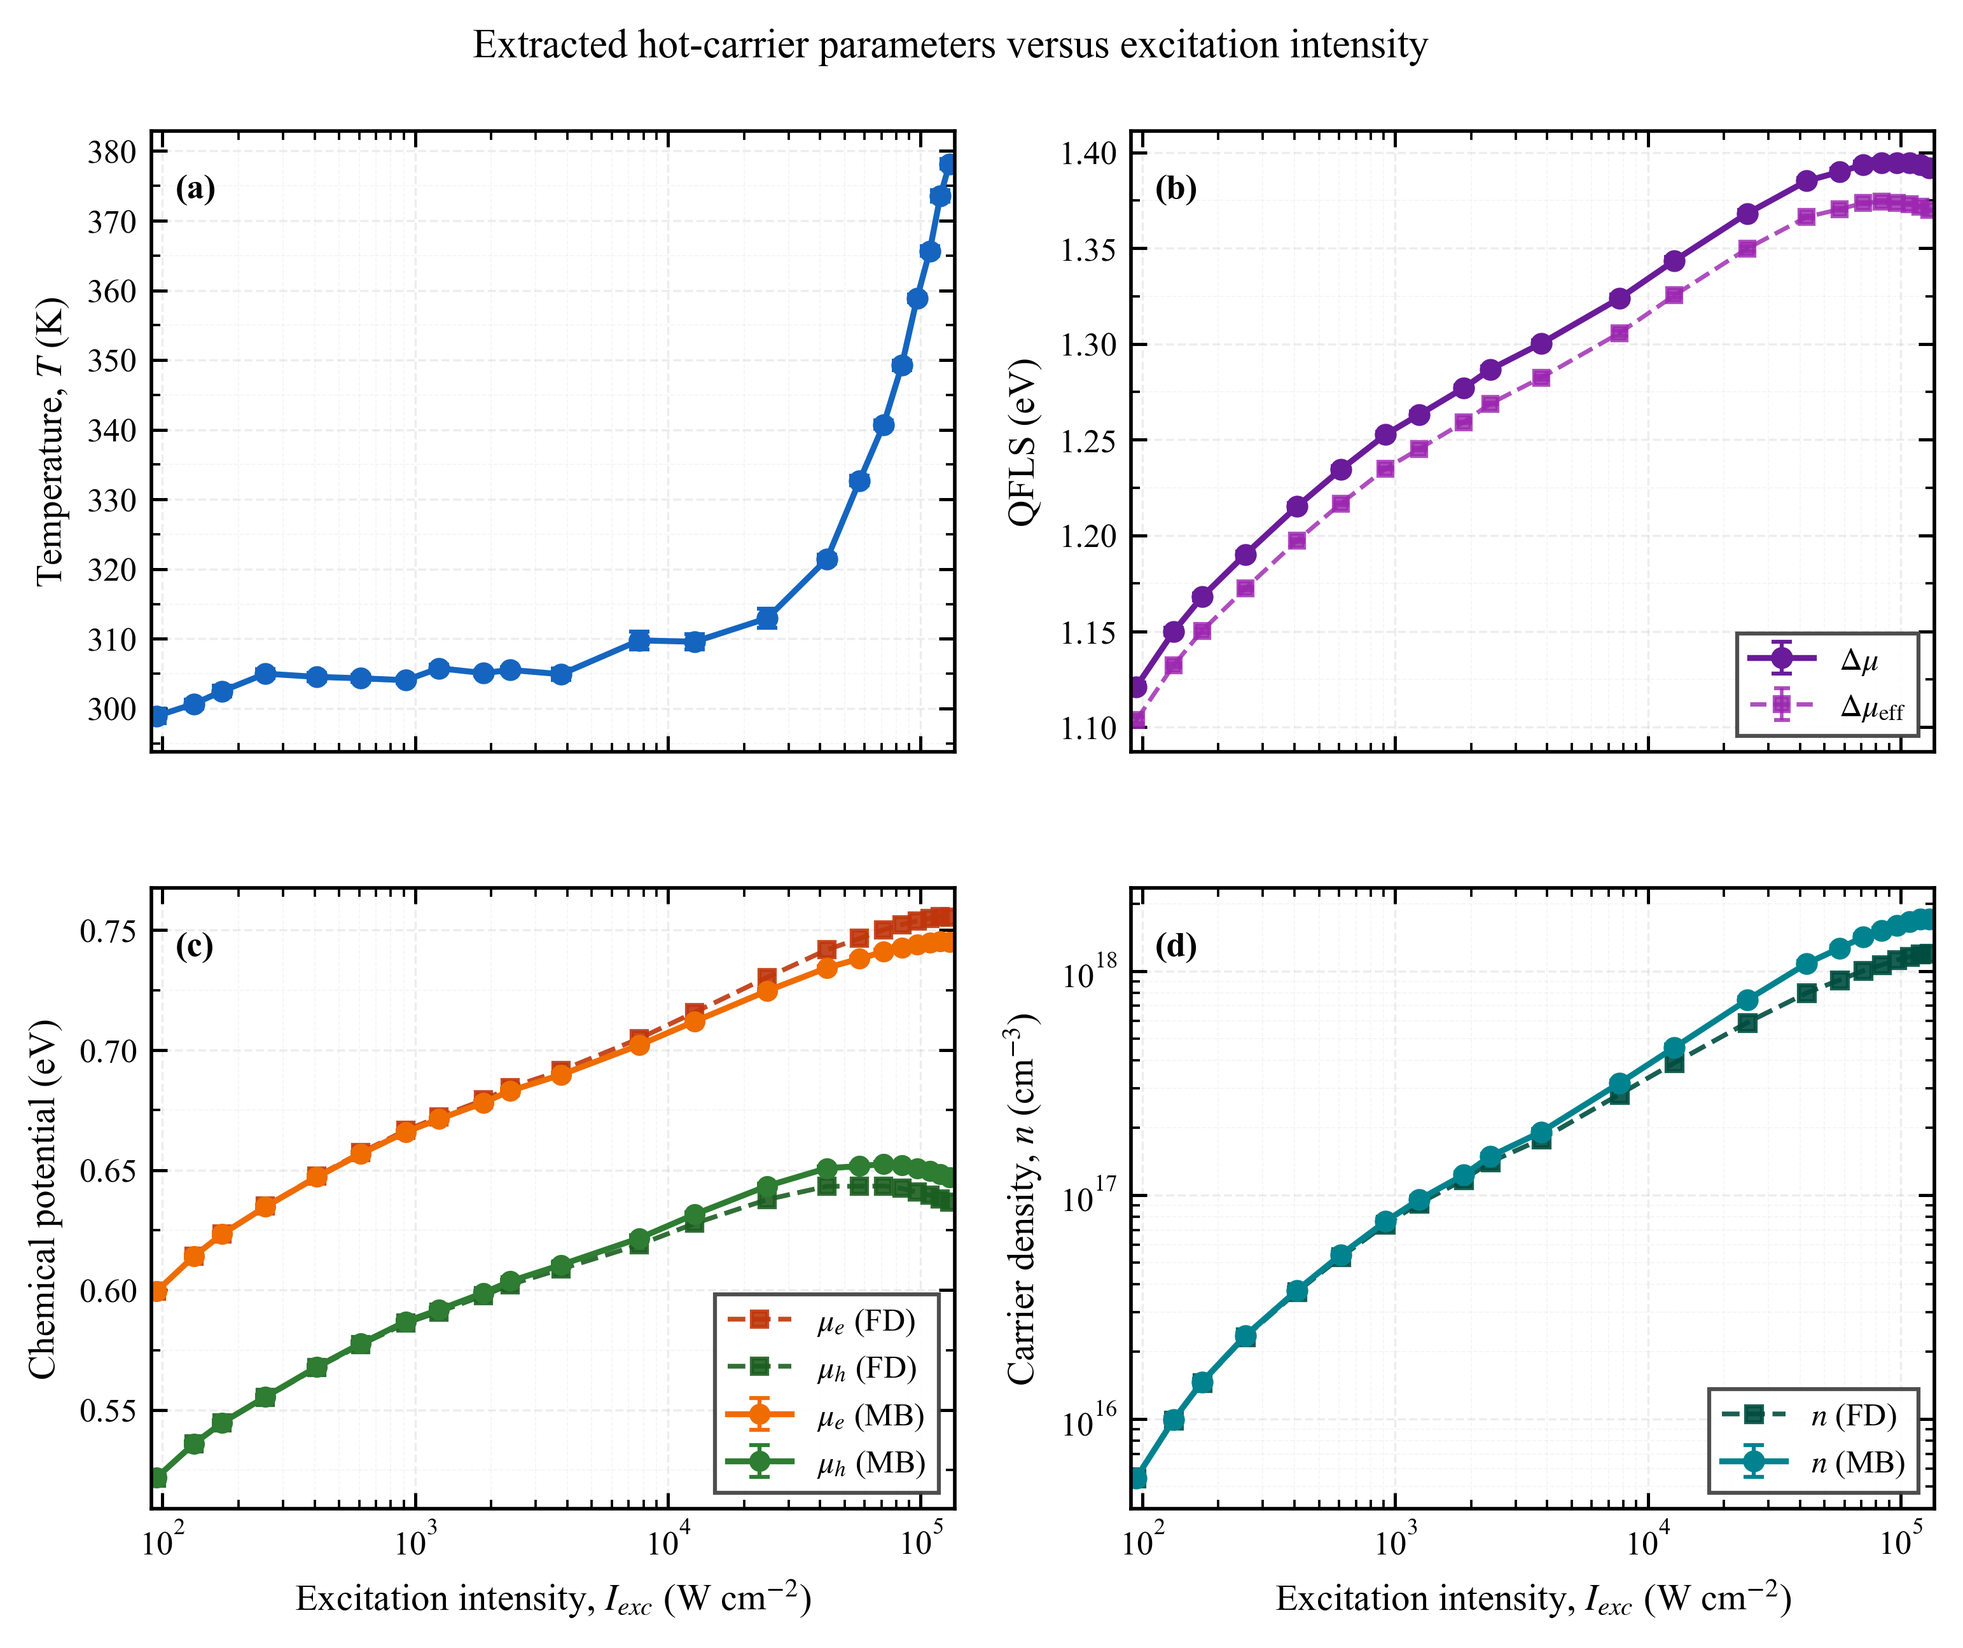
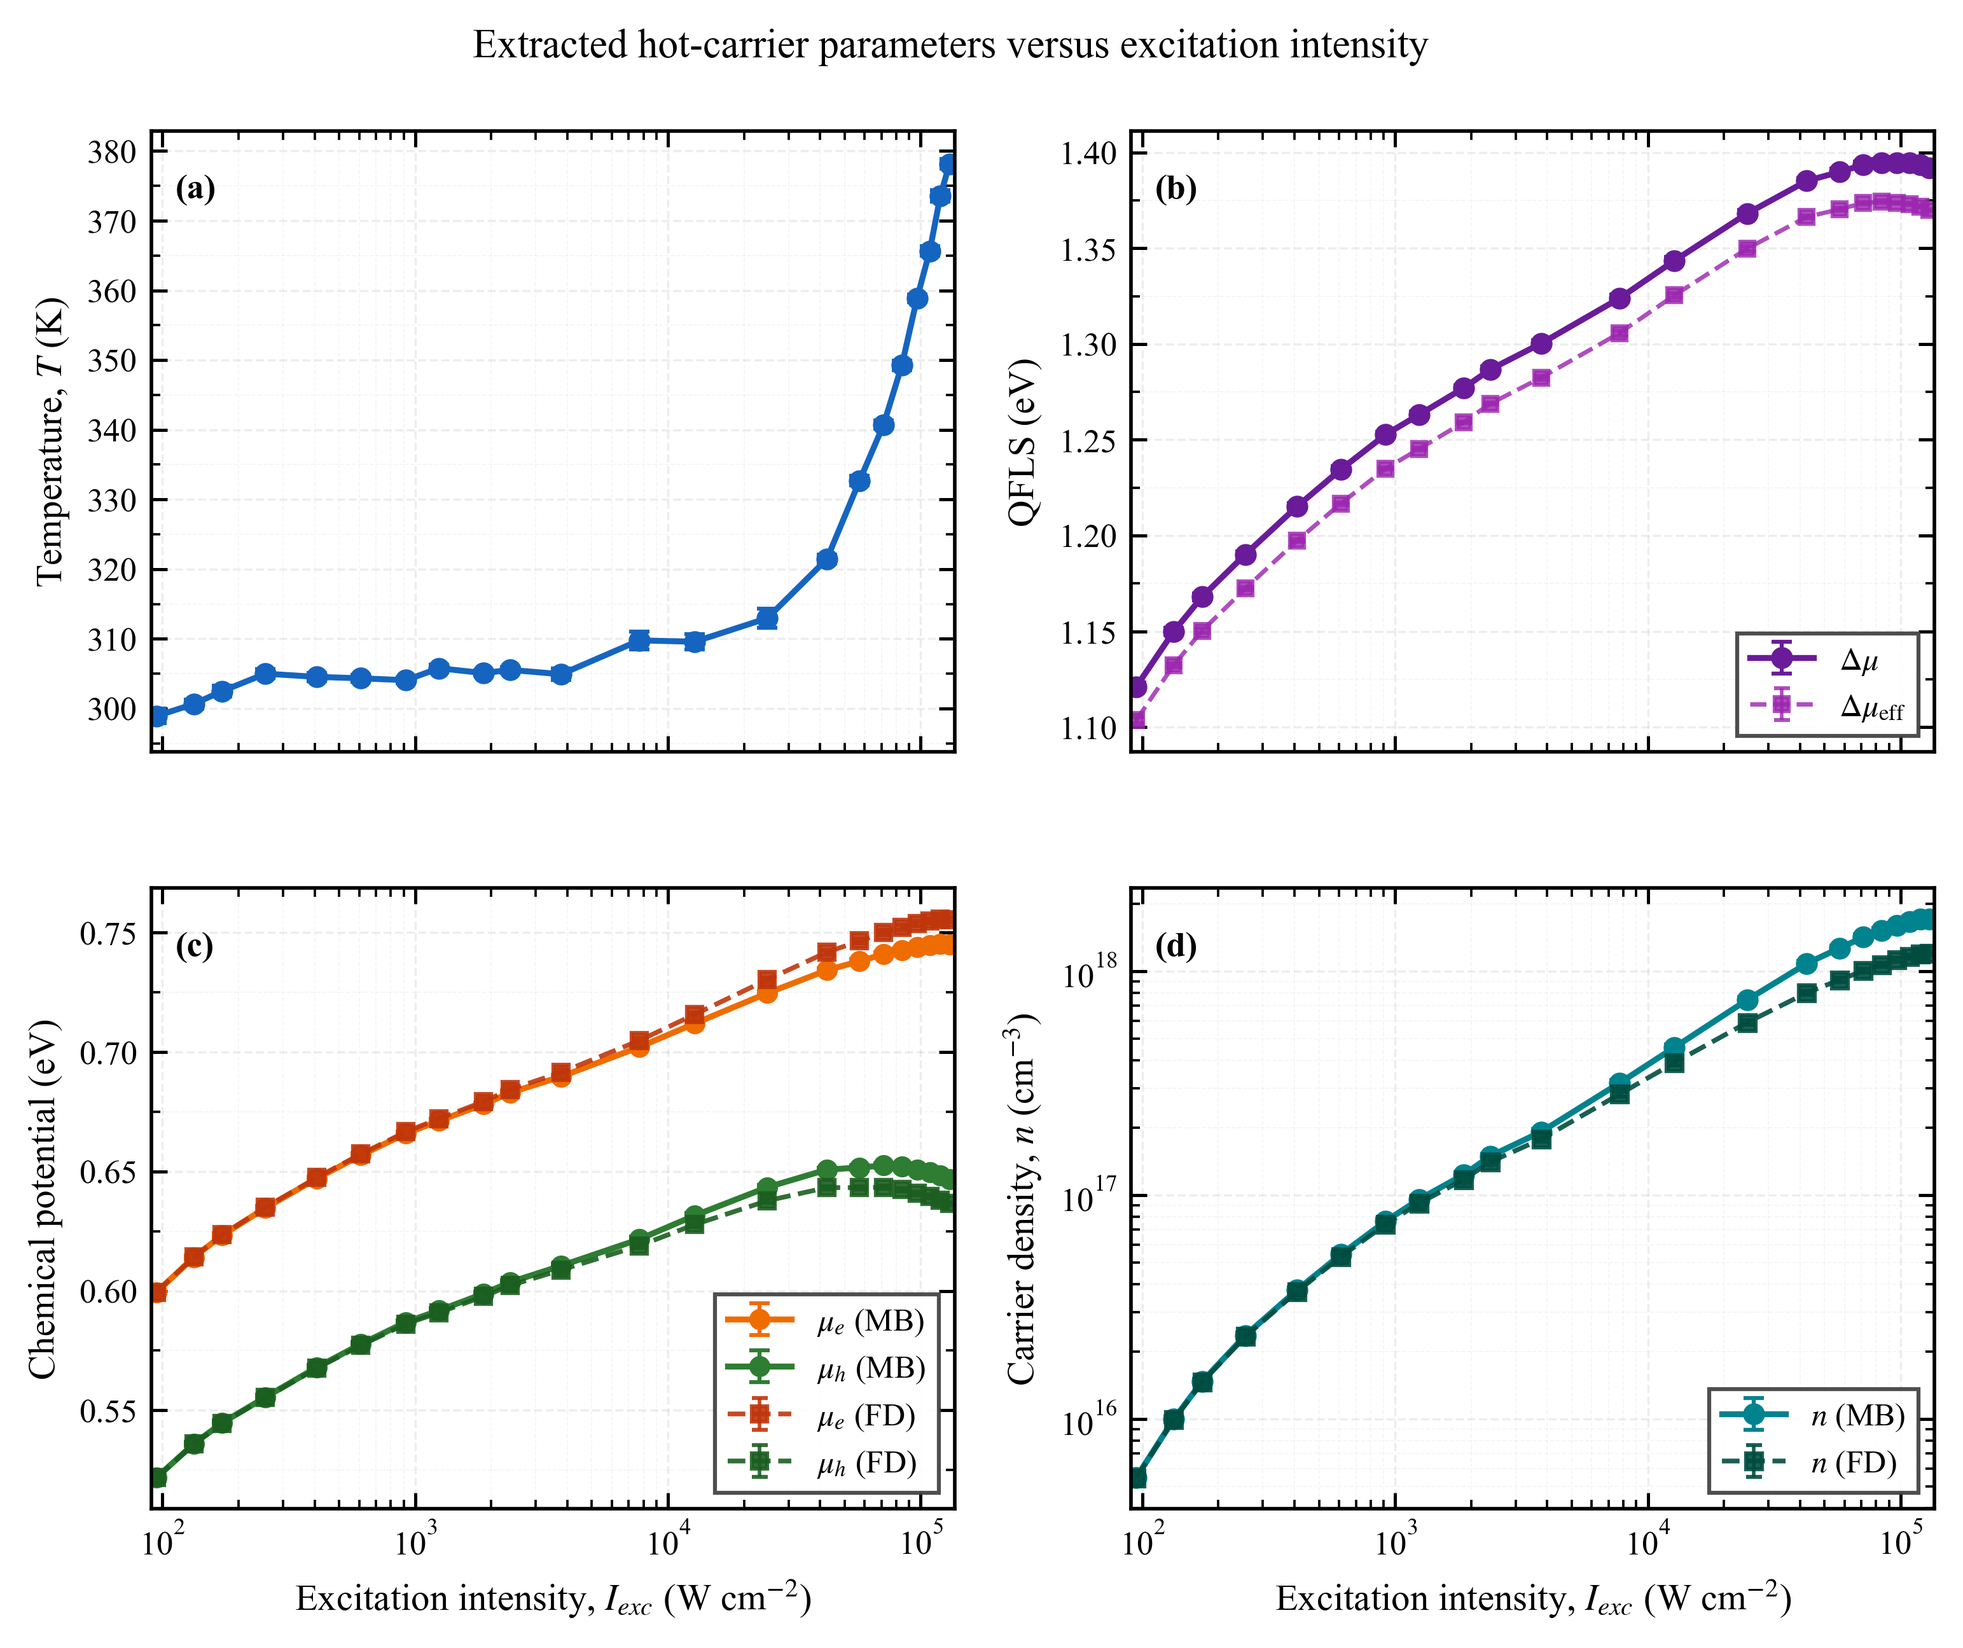
Implemented FD uncertainty propagation alongside the existing MB path. In analysis.py, the chi2, fit-range, and A0 branches now propagate the fitted T and Delta_mu uncertainty through the FD solver as well, and models.py now exports the new fields: mu_e_fd_err_*, mu_h_fd_err_*, and carrier_density_f
The README now reflects the new behavior in README.md and README.md, including removal of the old “FD uncertainties not yet included” limitation. I verified the change by running ./.venv/Scripts/python.exe main.py; it completed successfully and regenerated fit_results.csv and parameters_vs_intensity.png. The new FD total-error columns are populated for all 22 spectra.

diff --git a/hot_carrier/analysis.py b/hot_carrier/analysis.py
@@ -1,5 +1,6 @@
 from __future__ import annotations
 
+from collections.abc import Callable
 from pathlib import Path
 
 import numpy as np
@@ -246,8 +247,11 @@ def _compute_parameters_from_line(
         float(n_cm3),
     )
 
-
-def _jacobian_mu_density_wrt_t_q(temperature_k: float, qfls_ev: float) -> np.ndarray:
+def _jacobian_state_wrt_t_q(
+    temperature_k: float,
+    qfls_ev: float,
+    state_solver: Callable[[float, float], tuple[float, float, float]],
+) -> np.ndarray:
     jac = np.full((3, 2), np.nan, dtype=float)
     if (not np.isfinite(temperature_k)) or (not np.isfinite(qfls_ev)) or temperature_k <= 0:
         return jac
@@ -262,10 +266,10 @@ def _jacobian_mu_density_wrt_t_q(temperature_k: float, qfls_ev: float) -> np.nda
     q_plus = qfls_ev + dq
     dq_eff = q_plus - q_minus
 
-    mu_e_tp, mu_h_tp, n_tp = compute_mu_and_density_mb(temperature_k=t_plus, qfls_ev=qfls_ev)
-    mu_e_tm, mu_h_tm, n_tm = compute_mu_and_density_mb(temperature_k=t_minus, qfls_ev=qfls_ev)
-    mu_e_qp, mu_h_qp, n_qp = compute_mu_and_density_mb(temperature_k=temperature_k, qfls_ev=q_plus)
-    mu_e_qm, mu_h_qm, n_qm = compute_mu_and_density_mb(temperature_k=temperature_k, qfls_ev=q_minus)
+    mu_e_tp, mu_h_tp, n_tp = state_solver(temperature_k=t_plus, qfls_ev=qfls_ev)
+    mu_e_tm, mu_h_tm, n_tm = state_solver(temperature_k=t_minus, qfls_ev=qfls_ev)
+    mu_e_qp, mu_h_qp, n_qp = state_solver(temperature_k=temperature_k, qfls_ev=q_plus)
+    mu_e_qm, mu_h_qm, n_qm = state_solver(temperature_k=temperature_k, qfls_ev=q_minus)
 
     jac[:, 0] = np.array(
         [
@@ -286,6 +290,28 @@ def _jacobian_mu_density_wrt_t_q(temperature_k: float, qfls_ev: float) -> np.nda
     return jac
 
 
+def _propagate_state_uncertainties(
+    out: dict[str, float],
+    *,
+    temperature_k: float,
+    qfls_ev: float,
+    cov_tq: np.ndarray,
+    state_solver: Callable[[float, float], tuple[float, float, float]],
+    state_keys: tuple[str, str, str],
+) -> None:
+    jac = _jacobian_state_wrt_t_q(
+        temperature_k=temperature_k,
+        qfls_ev=qfls_ev,
+        state_solver=state_solver,
+    )
+    if not (np.all(np.isfinite(jac)) and np.all(np.isfinite(cov_tq))):
+        return
+
+    cov_derived = jac @ cov_tq @ jac.T
+    for idx, key in enumerate(state_keys):
+        out[key] = float(np.sqrt(max(cov_derived[idx, idx], 0.0)))
+
+
 def _chi2_parameter_uncertainties(
     slope: float,
     intercept: float,
@@ -294,14 +320,7 @@ def _chi2_parameter_uncertainties(
     qfls_ev: float,
     assumed_a0: float,
 ) -> dict[str, float]:
-    out = {
-        "temperature_k": np.nan,
-        "qfls_effective_ev": np.nan,
-        "qfls_ev": np.nan,
-        "mu_e_ev": np.nan,
-        "mu_h_ev": np.nan,
-        "carrier_density_cm3": np.nan,
-    }
+    out = {key: np.nan for key in FIT_PARAMETER_KEYS}
     if (not np.isfinite(slope)) or slope == 0:
         return out
     if covariance_line.shape != (2, 2) or not np.all(np.isfinite(covariance_line)):
@@ -332,12 +351,22 @@ def _chi2_parameter_uncertainties(
     out["qfls_ev"] = float(np.sqrt(max(var_q, 0.0)))
 
     cov_tq = cov_primary[np.ix_([0, 2], [0, 2])]
-    jac_derived = _jacobian_mu_density_wrt_t_q(temperature_k=temperature_k, qfls_ev=qfls_ev)
-    if np.all(np.isfinite(jac_derived)) and np.all(np.isfinite(cov_tq)):
-        cov_derived = jac_derived @ cov_tq @ jac_derived.T
-        out["mu_e_ev"] = float(np.sqrt(max(cov_derived[0, 0], 0.0)))
-        out["mu_h_ev"] = float(np.sqrt(max(cov_derived[1, 1], 0.0)))
-        out["carrier_density_cm3"] = float(np.sqrt(max(cov_derived[2, 2], 0.0)))
+    _propagate_state_uncertainties(
+        out,
+        temperature_k=temperature_k,
+        qfls_ev=qfls_ev,
+        cov_tq=cov_tq,
+        state_solver=compute_mu_and_density_mb,
+        state_keys=("mu_e_ev", "mu_h_ev", "carrier_density_cm3"),
+    )
+    _propagate_state_uncertainties(
+        out,
+        temperature_k=temperature_k,
+        qfls_ev=qfls_ev,
+        cov_tq=cov_tq,
+        state_solver=compute_mu_and_density_fd,
+        state_keys=("mu_e_fd_ev", "mu_h_fd_ev", "carrier_density_fd_cm3"),
+    )
 
     return out
 
@@ -552,12 +581,36 @@ def _fit_range_rms_uncertainty(
         weights = np.ones_like(weights, dtype=float)
     weights = weights / np.sum(weights)
 
+    sample_parameter_values: dict[str, np.ndarray] = {}
+    if any(
+        key in base_parameters
+        for key in ("mu_e_fd_ev", "mu_h_fd_ev", "carrier_density_fd_cm3")
+    ):
+        fd_values = np.array(
+            [
+                compute_mu_and_density_fd(
+                    temperature_k=sample.temperature_k,
+                    qfls_ev=sample.qfls_ev,
+                )
+                for sample in samples
+            ],
+            dtype=float,
+        )
+        sample_parameter_values["mu_e_fd_ev"] = fd_values[:, 0]
+        sample_parameter_values["mu_h_fd_ev"] = fd_values[:, 1]
+        sample_parameter_values["carrier_density_fd_cm3"] = fd_values[:, 2]
+
     for key, base_value in base_parameters.items():
         if not np.isfinite(base_value):
             out[key] = np.nan
             continue
 
-        sample_values = np.array([getattr(sample, key) for sample in samples], dtype=float)
+        if key not in sample_parameter_values:
+            sample_parameter_values[key] = np.array(
+                [getattr(sample, key) for sample in samples],
+                dtype=float,
+            )
+        sample_values = sample_parameter_values[key]
         finite = np.isfinite(sample_values)
         if not np.any(finite):
             out[key] = np.nan
@@ -607,14 +660,7 @@ def _a0_parameter_uncertainties(
     assumed_a0: float,
     a0_sigma: float,
 ) -> dict[str, float]:
-    out = {
-        "temperature_k": 0.0,
-        "qfls_effective_ev": 0.0,
-        "qfls_ev": 0.0,
-        "mu_e_ev": 0.0,
-        "mu_h_ev": 0.0,
-        "carrier_density_cm3": 0.0,
-    }
+    out = {key: 0.0 for key in FIT_PARAMETER_KEYS}
     if (
         (not np.isfinite(temperature_k))
         or (temperature_k <= 0)
@@ -626,6 +672,9 @@ def _a0_parameter_uncertainties(
         out["mu_e_ev"] = np.nan
         out["mu_h_ev"] = np.nan
         out["carrier_density_cm3"] = np.nan
+        out["mu_e_fd_ev"] = np.nan
+        out["mu_h_fd_ev"] = np.nan
+        out["carrier_density_fd_cm3"] = np.nan
         return out
 
     if (not np.isfinite(a0_sigma)) or (a0_sigma <= 0):
@@ -636,14 +685,22 @@ def _a0_parameter_uncertainties(
     out["qfls_ev"] = float(sigma_q)
 
     cov_tq = np.array([[0.0, 0.0], [0.0, sigma_q**2]], dtype=float)
-    jac_derived = _jacobian_mu_density_wrt_t_q(
-        temperature_k=temperature_k, qfls_ev=qfls_ev
+    _propagate_state_uncertainties(
+        out,
+        temperature_k=temperature_k,
+        qfls_ev=qfls_ev,
+        cov_tq=cov_tq,
+        state_solver=compute_mu_and_density_mb,
+        state_keys=("mu_e_ev", "mu_h_ev", "carrier_density_cm3"),
     )
-    if np.all(np.isfinite(jac_derived)):
-        cov_derived = jac_derived @ cov_tq @ jac_derived.T
-        out["mu_e_ev"] = float(np.sqrt(max(cov_derived[0, 0], 0.0)))
-        out["mu_h_ev"] = float(np.sqrt(max(cov_derived[1, 1], 0.0)))
-        out["carrier_density_cm3"] = float(np.sqrt(max(cov_derived[2, 2], 0.0)))
+    _propagate_state_uncertainties(
+        out,
+        temperature_k=temperature_k,
+        qfls_ev=qfls_ev,
+        cov_tq=cov_tq,
+        state_solver=compute_mu_and_density_fd,
+        state_keys=("mu_e_fd_ev", "mu_h_fd_ev", "carrier_density_fd_cm3"),
+    )
 
     return out
 
@@ -1301,6 +1358,9 @@ def fit_single_spectrum(
         "mu_e_ev": mu_e_ev,
         "mu_h_ev": mu_h_ev,
         "carrier_density_cm3": n_cm3,
+        "mu_e_fd_ev": mu_e_fd_ev,
+        "mu_h_fd_ev": mu_h_fd_ev,
+        "carrier_density_fd_cm3": n_fd_cm3,
     }
     chi2_err = _chi2_parameter_uncertainties(
         slope=slope,

diff --git a/hot_carrier/models.py b/hot_carrier/models.py
@@ -53,6 +53,18 @@ class FitResult:
     carrier_density_err_range_cm3: float
     carrier_density_err_a0_cm3: float
     carrier_density_err_total_cm3: float
+    mu_e_fd_err_chi2_ev: float
+    mu_e_fd_err_range_ev: float
+    mu_e_fd_err_a0_ev: float
+    mu_e_fd_err_total_ev: float
+    mu_h_fd_err_chi2_ev: float
+    mu_h_fd_err_range_ev: float
+    mu_h_fd_err_a0_ev: float
+    mu_h_fd_err_total_ev: float
+    carrier_density_fd_err_chi2_cm3: float
+    carrier_density_fd_err_range_cm3: float
+    carrier_density_fd_err_a0_cm3: float
+    carrier_density_fd_err_total_cm3: float
     fit_range_samples: int
 
 
@@ -80,6 +92,9 @@ FIT_PARAMETER_KEYS = (
     "mu_e_ev",
     "mu_h_ev",
     "carrier_density_cm3",
+    "mu_e_fd_ev",
+    "mu_h_fd_ev",
+    "carrier_density_fd_cm3",
 )
 
 FIT_RESULT_ERROR_FIELDS = {
@@ -118,6 +133,24 @@ FIT_RESULT_ERROR_FIELDS = {
         "carrier_density_err_range_cm3",
         "carrier_density_err_a0_cm3",
         "carrier_density_err_total_cm3",
+    ),
+    "mu_e_fd_ev": (
+        "mu_e_fd_err_chi2_ev",
+        "mu_e_fd_err_range_ev",
+        "mu_e_fd_err_a0_ev",
+        "mu_e_fd_err_total_ev",
+    ),
+    "mu_h_fd_ev": (
+        "mu_h_fd_err_chi2_ev",
+        "mu_h_fd_err_range_ev",
+        "mu_h_fd_err_a0_ev",
+        "mu_h_fd_err_total_ev",
+    ),
+    "carrier_density_fd_cm3": (
+        "carrier_density_fd_err_chi2_cm3",
+        "carrier_density_fd_err_range_cm3",
+        "carrier_density_fd_err_a0_cm3",
+        "carrier_density_fd_err_total_cm3",
     ),
 }
 

diff --git a/hot_carrier/plotting.py b/hot_carrier/plotting.py
@@ -418,22 +418,28 @@ def plot_summary(results_df: pd.DataFrame, outpath: Path) -> None:
         color="#2e7d32",
         label=r"$\mu_h$ (MB)",
     )
-    ax10.plot(
+    ax10.errorbar(
         x,
         results_df["mu_e_fd_ev"],
-        "s--",
+        yerr=results_df["mu_e_fd_err_total_ev"],
+        fmt="s--",
         lw=1.2,
         ms=3.9,
+        capsize=2.0,
+        elinewidth=0.9,
         color="#bf360c",
         alpha=0.9,
         label=r"$\mu_e$ (FD)",
     )
-    ax10.plot(
+    ax10.errorbar(
         x,
         results_df["mu_h_fd_ev"],
-        "s--",
+        yerr=results_df["mu_h_fd_err_total_ev"],
+        fmt="s--",
         lw=1.2,
         ms=3.9,
+        capsize=2.0,
+        elinewidth=0.9,
         color="#1b5e20",
         alpha=0.9,
         label=r"$\mu_h$ (FD)",
@@ -459,12 +465,16 @@ def plot_summary(results_df: pd.DataFrame, outpath: Path) -> None:
         label=r"$n$ (MB)",
     )
     n_fd_vals = results_df["carrier_density_fd_cm3"].to_numpy(dtype=float)
-    ax11.plot(
+    n_fd_err = results_df["carrier_density_fd_err_total_cm3"].to_numpy(dtype=float)
+    ax11.errorbar(
         x,
         n_fd_vals,
-        "s--",
+        yerr=_safe_log_yerr(y=n_fd_vals, err=n_fd_err),
+        fmt="s--",
         lw=1.2,
         ms=4.0,
+        capsize=2.0,
+        elinewidth=0.9,
         color="#004d40",
         alpha=0.9,
         label=r"$n$ (FD)",

diff --git a/README.md b/README.md
@@ -295,7 +295,9 @@ example:
 - `temperature_err_a0_k`,
 - `temperature_err_total_k`.
 
-The same naming pattern is used for `qfls`, `mu_e`, `mu_h`, and carrier density.
+The same naming pattern is used for `qfls`, the MB quantities `mu_e`, `mu_h`,
+and carrier density, and the FD quantities `mu_e_fd`, `mu_h_fd`, and
+`carrier_density_fd`.
 
 ## 7. Carrier-State Reconstruction
 
@@ -337,15 +339,24 @@ The optical fit itself does not change when FD is used. The fitted `T` and
 `Delta_mu` come from the PL tail either way. FD only changes the back-calculated
 carrier-state quantities `mu_e`, `mu_h`, and `n`.
 
+The repository now also propagates the same three optical uncertainty
+contributions into the FD state variables:
+
+- line-fit covariance (`chi2`),
+- fit-window sensitivity (`range`),
+- absorptivity uncertainty (`A0`).
+
 ### 7.4 Why both MB and FD are reported
 
 MB is convenient, fast, and analytically transparent. FD is more reliable once
 the state approaches degeneracy. In this repository:
 
-- MB values are the default quantities used for downstream uncertainty
-  propagation and for the current `Delta_mu`-based Tsai inversion,
-- FD values are exported to show how much the reconstructed carrier state shifts
-  when degeneracy matters.
+- both MB and FD carrier reconstructions are exported with propagated
+  uncertainties derived from the same fitted `T` and `Delta_mu`,
+- MB values remain the default quantities used in the current power-balance
+  per-carrier terms and in the `Delta_mu`-based Tsai inversion,
+- FD values show how much the reconstructed carrier state shifts when
+  degeneracy matters.
 
 That comparison becomes important at the high-intensity end of the dataset.
 
@@ -663,6 +674,8 @@ The results table is wide, but a small set of columns does most of the work:
   `mu_e_fd_ev`, `mu_h_fd_ev`, `carrier_density_fd_cm3`,
 - uncertainty columns:
   all `*_err_chi2_*`, `*_err_range_*`, `*_err_a0_*`, `*_err_total_*`,
+  including `mu_e_fd_err_total_ev`, `mu_h_fd_err_total_ev`,
+  and `carrier_density_fd_err_total_cm3`,
 - power-balance outputs:
   `absorbed_power_*`, `recombination_power_*`, `thermalized_power_*`,
   `thermalized_fraction`, `recombination_fraction`,
@@ -705,8 +718,6 @@ also the ones where the thermodynamic closure should eventually be upgraded.
   real spectral structure of GaAs absorptivity.
 - `Delta_mu` depends on the PL intercept and is therefore sensitive to absolute
   intensity calibration and to the assumed `A0`.
-- FD carrier quantities are reported, but FD-specific propagated uncertainties
-  are not yet included.
 - The Tsai workflow is electron-only and does not represent a full coupled
   electron-hole transport or recombination model.
 - When `TSAI_PRIMARY_INPUT = "delta_mu"`, the Tsai inversion reconstructs
@@ -732,11 +743,11 @@ useful next steps are:
    `mb_validity_limits.csv`, and the main Tsai metrics stay numerically stable
    when the code changes.
 
-3. Propagate uncertainties through the FD and Tsai stages.
+3. Propagate uncertainties through the Tsai stage.
 
-   Right now the uncertainty story is strongest for the optical fit and compact
-   power balance. The next missing piece is uncertainty on FD state variables and
-   simulated Tsai temperatures.
+   Right now the uncertainty story covers the optical fit, MB and FD state
+   reconstruction, and the compact power balance. The next missing piece is
+   uncertainty on the simulated Tsai temperatures.
 
 4. Replace constant `A0` with a spectral `A(E)` treatment.
 
